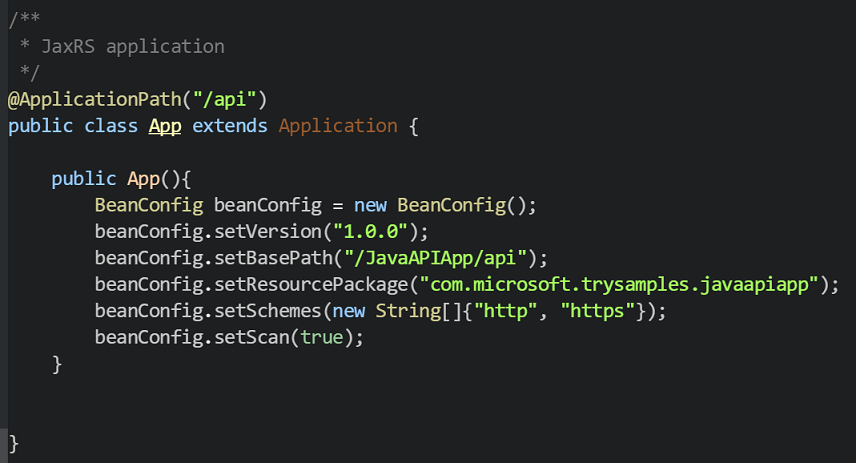
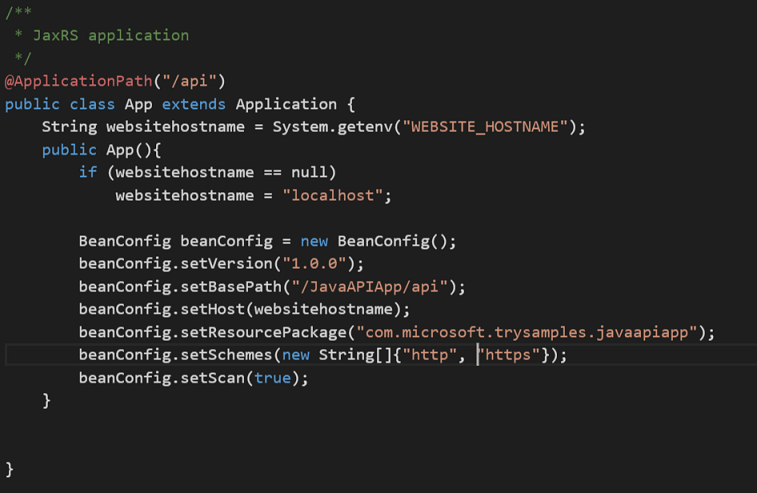
Updated code and pictures

diff --git a/app-service-api-java-api-app.md b/app-service-api-java-api-app.md
@@ -138,6 +138,7 @@ In this section, you'll download and take a look at the code provided as part of
 
 		beanConfig.setVersion("1.0.0");
 		beanConfig.setBasePath("/JavaAPIApp/api");
+		beanConfig.setHost(websitehostname);
 		beanConfig.setResourcePackage("com.microsoft.trysamples.javaapiapp");
 		beanConfig.setSchemes(new String[]{"http", "https"});
 		beanConfig.setScan(true);
@@ -145,6 +146,8 @@ In this section, you'll download and take a look at the code provided as part of
 	The `setVersion` method set the API version metadata served by Swagger.
 
 	The `setBasePath` method sets the base path which Swagger uses to generate the correct metadata. This URL is relative to the base path of your API app.
+
+	The `setHost` method sets the host on which the API is listening. In this case we're using the `websitehostname` variable which we've assigned a few lines before to dynamically set to `localhost` when running locally or the API App hostname when the application is running in Azure App Service.
 
 	The `setResourcePackage` method sets the package which Swagger will scan and include in the Swagger.json file, containing the API metadata.
 
